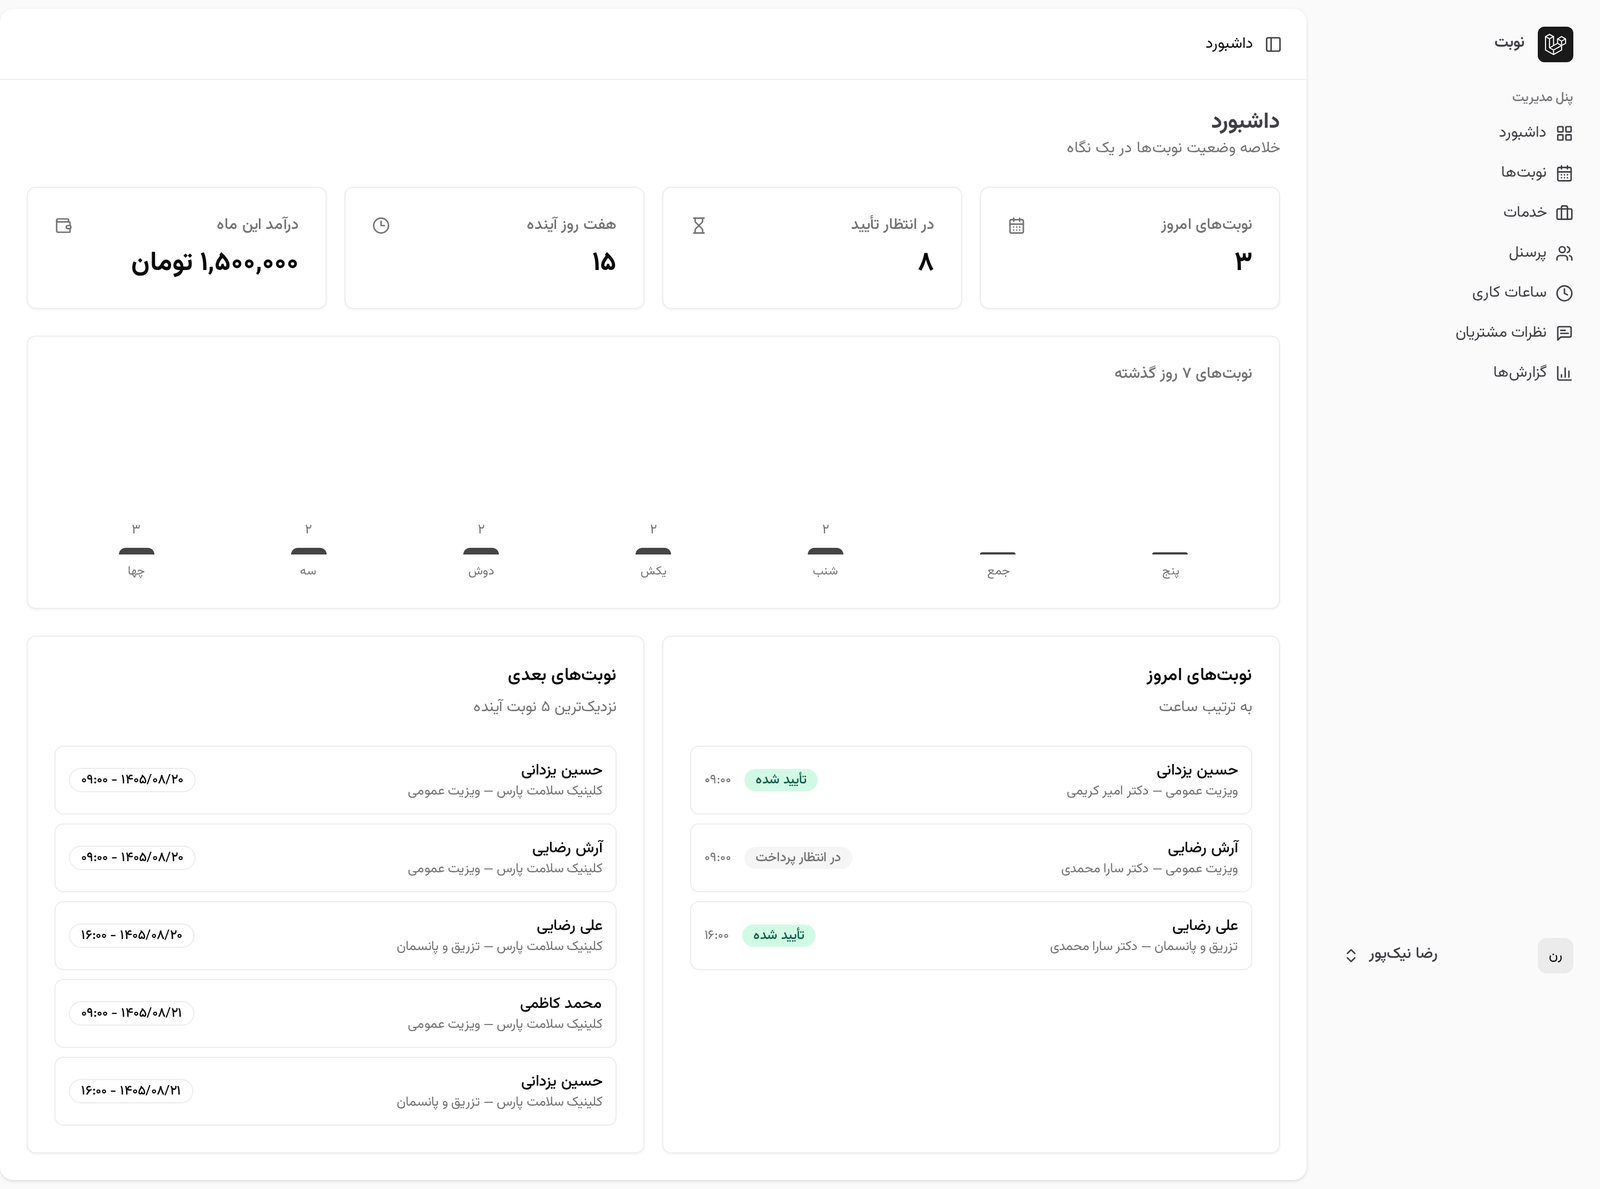
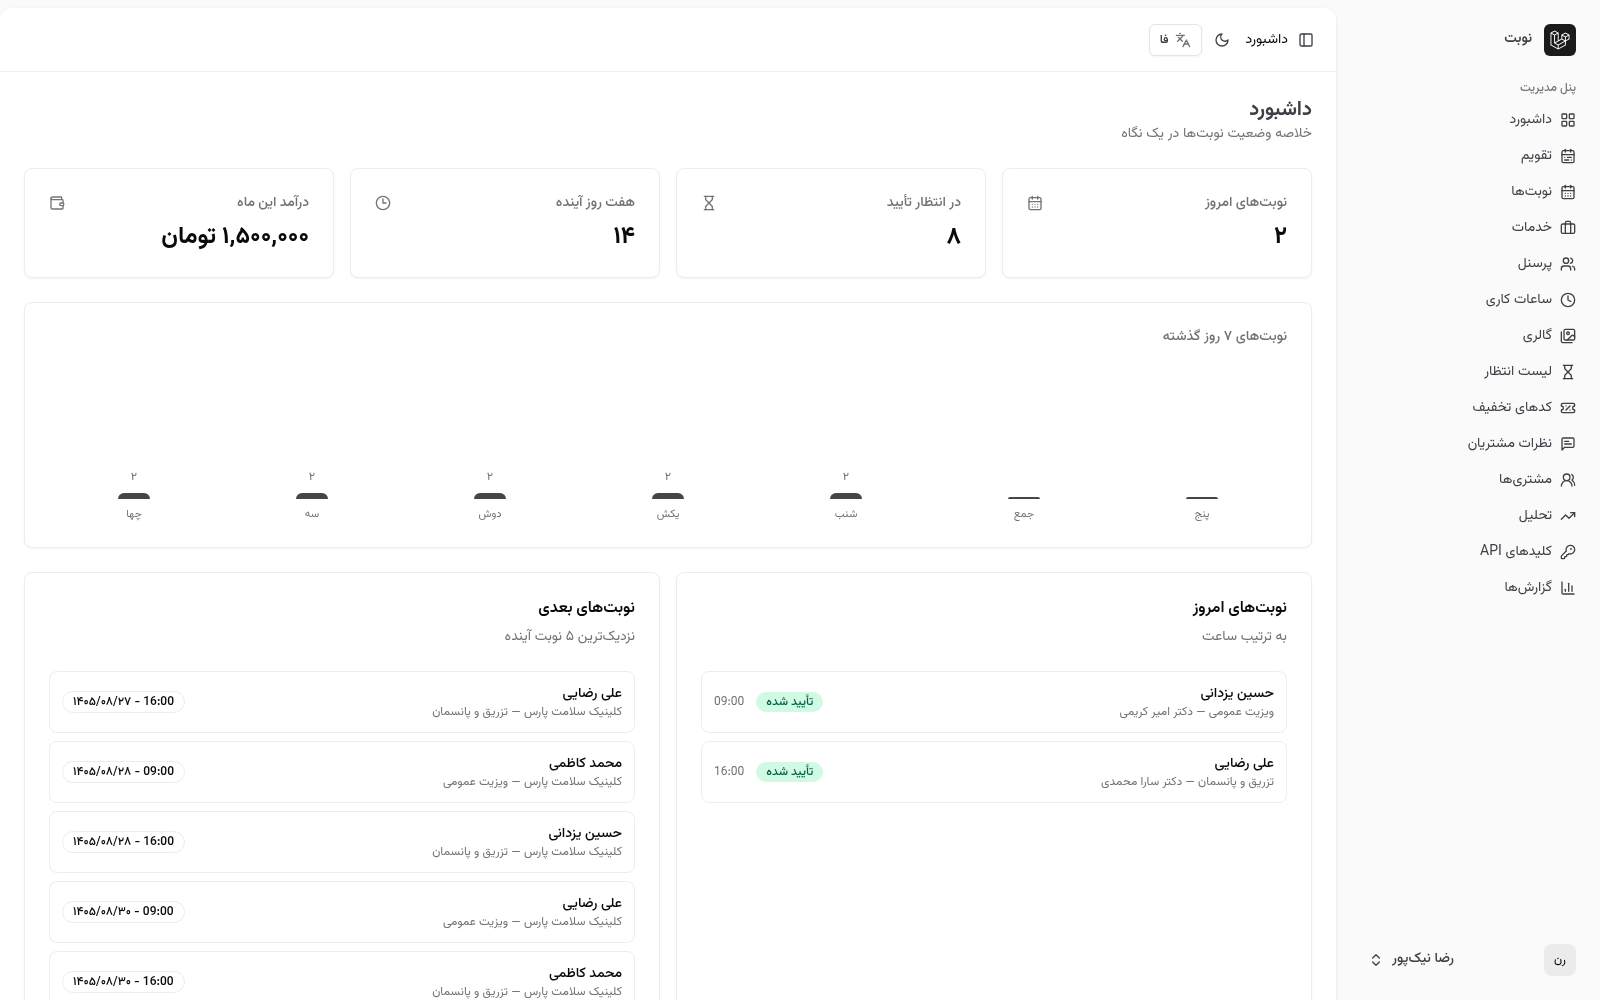
docs: v1.35.0 — live-demo screenshots, synced English roadmap, release badge
The gallery gains real screenshots of the visual calendar (v1.34) and a
refreshed dashboard from the live demo; the English roadmap had stalled
at v1.16 and is now synced through v1.35; both READMEs carry a release
badge that reads straight from GitHub tags; CHANGELOG turns Unreleased
into 1.35.0.

diff --git a/README.en.md b/README.en.md
@@ -7,6 +7,7 @@
 Persian-first, fully RTL, Jalali calendar — booking without phone calls and waiting on hold
 
 [![CI](https://github.com/Abolfazlrwm/nobat/actions/workflows/ci.yml/badge.svg)](https://github.com/Abolfazlrwm/nobat/actions/workflows/ci.yml)
+[![Release](https://img.shields.io/github/v/release/Abolfazlrwm/nobat?sort=semver&label=release)](https://github.com/Abolfazlrwm/nobat/releases)
 [![Laravel](https://img.shields.io/badge/Laravel-12-red)](https://laravel.com)
 [![Vue](https://img.shields.io/badge/Vue-3-brightgreen)](https://vuejs.org)
 [![Tests](https://img.shields.io/badge/tests-330%20passed-success)](https://github.com/Abolfazlrwm/nobat/actions)
@@ -58,6 +59,8 @@ Demo accounts (password for all: `password`):
 | ![Waitlist board](docs/screenshots/waitlist.png) | |
 | **🖼 The photo gallery (v1.14.0)** | **🌐 The bilingual panels — gallery in English (LTR)** |
 | ![Photo gallery](docs/screenshots/gallery.png) | ![English gallery page](docs/screenshots/dashboard-en.png) |
+| **🗓 The visual panel calendar — the working month at a glance (v1.34.0)** | |
+| ![Visual panel calendar](docs/screenshots/calendar.png) | |
 
 ---
 
@@ -175,6 +178,20 @@ Full architecture guide (in Persian): [`docs/ARCHITECTURE.md`](docs/ARCHITECTURE
 - [x] **v1.14** — bilingual management panels (the full dashboard in fa/en) and the business photo gallery with multi-file upload, a cover photo and a lightbox
 - [x] **v1.15** — a third language: Arabic (ar) with a full 501-key frontend catalog and 111 server keys, RTL layout shared with Persian, Gregorian dates with Arabic month names and Latin digits (ar-u-nu-latn)
 - [x] **v1.16** — the audit ceremony: trilingual completion (English auth/validation catalog, error pages, invoices, locale-aware sms/mail/db notifications), SEO (sitemap + JSON-LD), guest self-cancel by phone, waitlist auto-promote, manager replies to reviews, gallery reordering and panel pagination
+- [x] **v1.17** — the trilingual correctness bundle: a locale column on appointments, SMS in the visitor's language, calendars kept in step
+- [x] **v1.18** — the throttle key is the real visitor's identity, not the edge proxy server (the IP chain)
+- [x] **v1.19** — the scheduler heartbeat and a real health endpoint (`/health` replaces `/up`)
+- [x] **v1.20** — link previews: server-side meta per route
+- [x] **v1.21** — moving an appointment without a phone call: self-service time changes with the same phone proof
+- [x] **v1.22** — a directory that answers: server-side categories and search
+- [x] **v1.23** — the standing appointment: a recurring series booked in one go
+- [x] **v1.24–v1.27** — the identity stage: passwordless OTP sign-in, "my appointments" as the customer's personal book, SMS addressed by account name, a step-by-step ops book
+- [x] **v1.28–v1.30** — the real-money stage: ZarinPal on the real sandbox, cancel-paid with automatic refunds, Persian PDF invoices via mPDF (+ the v1.30.1 SQLite lock patch)
+- [x] **v1.31** — a real queue on the demo: `QUEUE_CONNECTION=database` and a worker running alongside the scheduler
+- [x] **v1.32** — international SMS: the Twilio driver with E.164 and `intl` routing (Iran → Kavenegar, the world → Twilio)
+- [x] **v1.33** — second-generation monitoring: `/health` with queue depth, disk space and the app version + the `nobat:doctor` command
+- [x] **v1.34** — the visual panel calendar: a Jalali month with each day's real load (status counts, busy minutes, waitlist demand) and the selected day's timeline
+- [x] **v1.35** — the reception booking QR: a QR of every business's public booking page with PNG download and link copy (superadmin & manager) + automated GitHub releases from tags
 
 Have an idea? Open a [feature request](../../issues/new?template=feature_request.yml).
 

diff --git a/CHANGELOG.md b/CHANGELOG.md
@@ -5,7 +5,19 @@ All notable changes to this project will be documented in this file.
 The format is based on [Keep a Changelog](https://keepachangelog.com/en/1.1.0/),
 and this project adheres to [Semantic Versioning](https://semver.org/spec/v2.0.0.html).
 
-## [Unreleased]
+## [1.35.0] - 2026-11-18
+
+### Added
+
+- **کدِ رزروِ پیشخوان**: در جدولِ کسبوکارها (سوپرادمین) و کنارِ لینکِ عمومی در
+  صفحهٔ گالری (مدیر)، دکمهٔ «کد QR» دیالوگی باز میکند که QRِ صفحهٔ عمومیِ رزروِ
+  همان کسبوکار را میکشد — با دانلودِ PNG باکیفیت (۵۱۲px) و کپیِ لینک؛ چاپش روی
+  پیشخوان یعنی مشتری با یک اسکن در صفحهٔ رزرو است. کاملاً سمتِ مرورگر با همان
+  `qrcode` که رسیدِ نوبت میکشد، سهزبانه (fa/en/ar) و بدونِ هیچ تغییرِ بکاند.
+- **ریلیزِ خودکارِ گیتهاب**: پوشِ هر تگِ `v*` یک GitHub Release میسازد که متنش
+  دقیقاً بخشِ همان نسخه از همین CHANGELOG است (`.github/extract_changelog.py` —
+  اگر نسخه چنجلاگ نداشته باشد ریلیز با خطا میشکند تا خالی منتشر نشود)؛ بجِ
+  «release» در هر دو README مستقیم از تگهای گیتهاب میخواند.
 
 ### Fixed
 
@@ -26,6 +38,9 @@ and this project adheres to [Semantic Versioning](https://semver.org/spec/v2.0.0
   و advisory های بالادستیِ بدونِ فیکس (sucrase، tinyglobby) به کارِ جداگانه موکول شد.
 - ۲۸ فایلِ فرانتاند با Prettier قالببندی شد و `format:check`/`lint:check` به
   CI اضافه شد — از این پس ESLint و Prettier همراهِ Pint در هر push اجرا میشوند.
+- اسکرینشاتهای واقعیِ دموی زنده: تقویمِ بصریِ v1.34 و داشبوردِ تازهشده به
+  گالریِ هر دو README اضافه شد و رودمپِ انگلیسی که از v1.16 عقبمانده بود تا
+  v1.35 همگام شد.
 
 ## [1.34.0] - 2026-11-17
 

diff --git a/README.md b/README.md
@@ -7,6 +7,7 @@
 فارسی، RTL، تقویم جلالی — رزرو بدون تماس تلفنی و بدون معطلی
 
 [![CI](https://github.com/Abolfazlrwm/nobat/actions/workflows/ci.yml/badge.svg)](https://github.com/Abolfazlrwm/nobat/actions/workflows/ci.yml)
+[![Release](https://img.shields.io/github/v/release/Abolfazlrwm/nobat?sort=semver&label=release)](https://github.com/Abolfazlrwm/nobat/releases)
 [![Laravel](https://img.shields.io/badge/Laravel-12-red)](https://laravel.com)
 [![Vue](https://img.shields.io/badge/Vue-3-brightgreen)](https://vuejs.org)
 [![Tests](https://img.shields.io/badge/tests-330%20passed-success)](https://github.com/Abolfazlrwm/nobat/actions)
@@ -62,6 +63,8 @@
 | ![پروفایل مشتری](docs/screenshots/customers-profile.png) | |
 | **🖼 گالری تصاویر کسبوکار (نسخه ۱.۱۴.۰)** | **🌐 پنل چندزبانه — گالری به انگلیسی (LTR)** |
 | ![گالری تصاویر](docs/screenshots/gallery.png) | ![داشبورد انگلیسی](docs/screenshots/dashboard-en.png) |
+| **🗓 تقویمِ بصریِ پنل — ماهِ کاری در یک نگاه (نسخه ۱.۳۴.۰)** | |
+| ![تقویم بصری پنل](docs/screenshots/calendar.png) | |
 
 ---
 
@@ -276,6 +279,7 @@ sequenceDiagram
 - [x] **v1.32** — پیامک بینالمللی: درایور Twilio با E.164 و روتینگ `intl` (ایران → کاوهنگار، دنیا → Twilio)
 - [x] **v1.33** — پایش نسل دوم: `/health` با عمقِ صف و فضای دیسک و نسخهٔ اپ + دستور `nobat:doctor`
 - [x] **v1.34** — تقویم بصری پنل: ماه جلالی با بارِ هر روز (وضعیتها، دقیقهٔ اشغال، صف انتظار) و خطِ زمانِ روزِ منتخب
+- [x] **v1.35** — کدِ رزروِ پیشخوان: QR صفحهٔ رزروِ هر کسبوکار با دانلودِ PNG و کپیِ لینک (سوپرادمین و مدیر) + ریلیزِ خودکارِ گیتهاب از روی تگها
 
 ایدهی جدیدی دارید؟ یک [پیشنهاد فیچر](../../issues/new?template=feature_request.yml) باز کنید.
 
